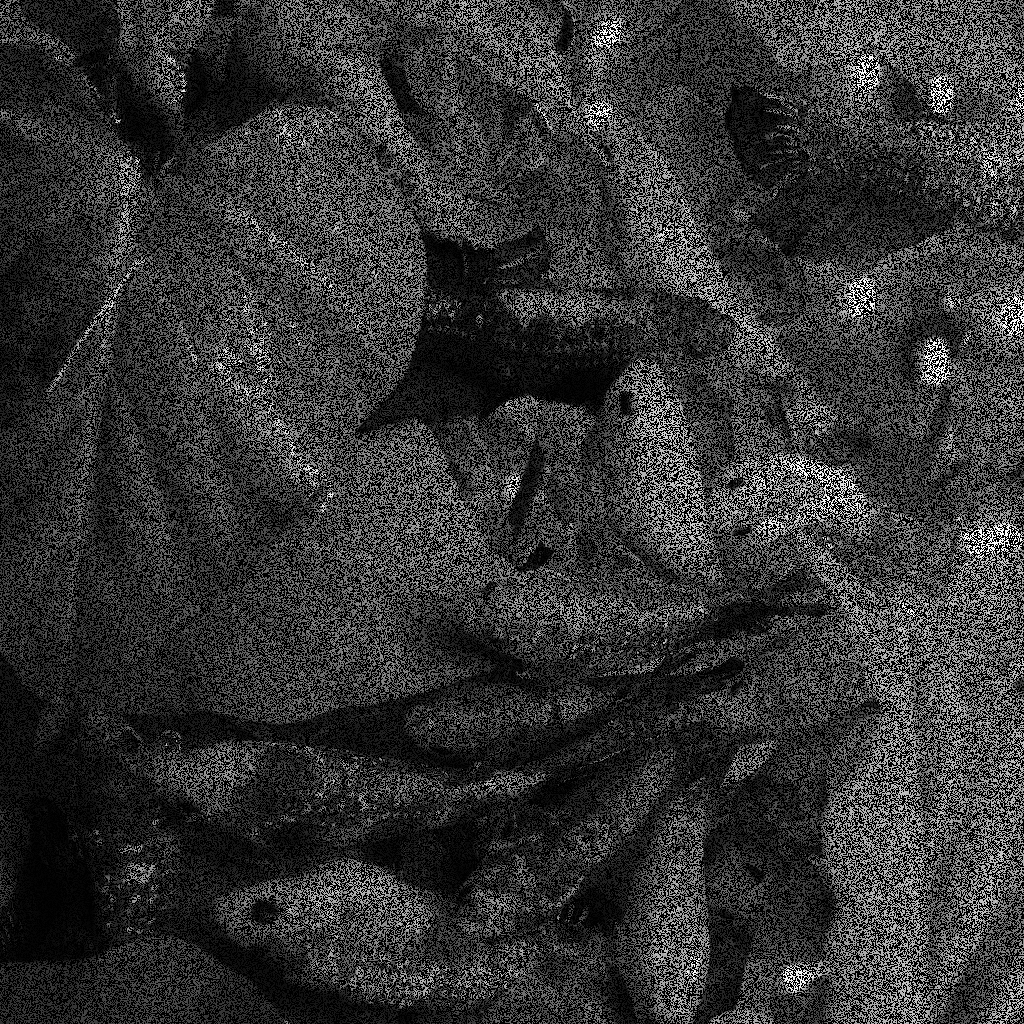
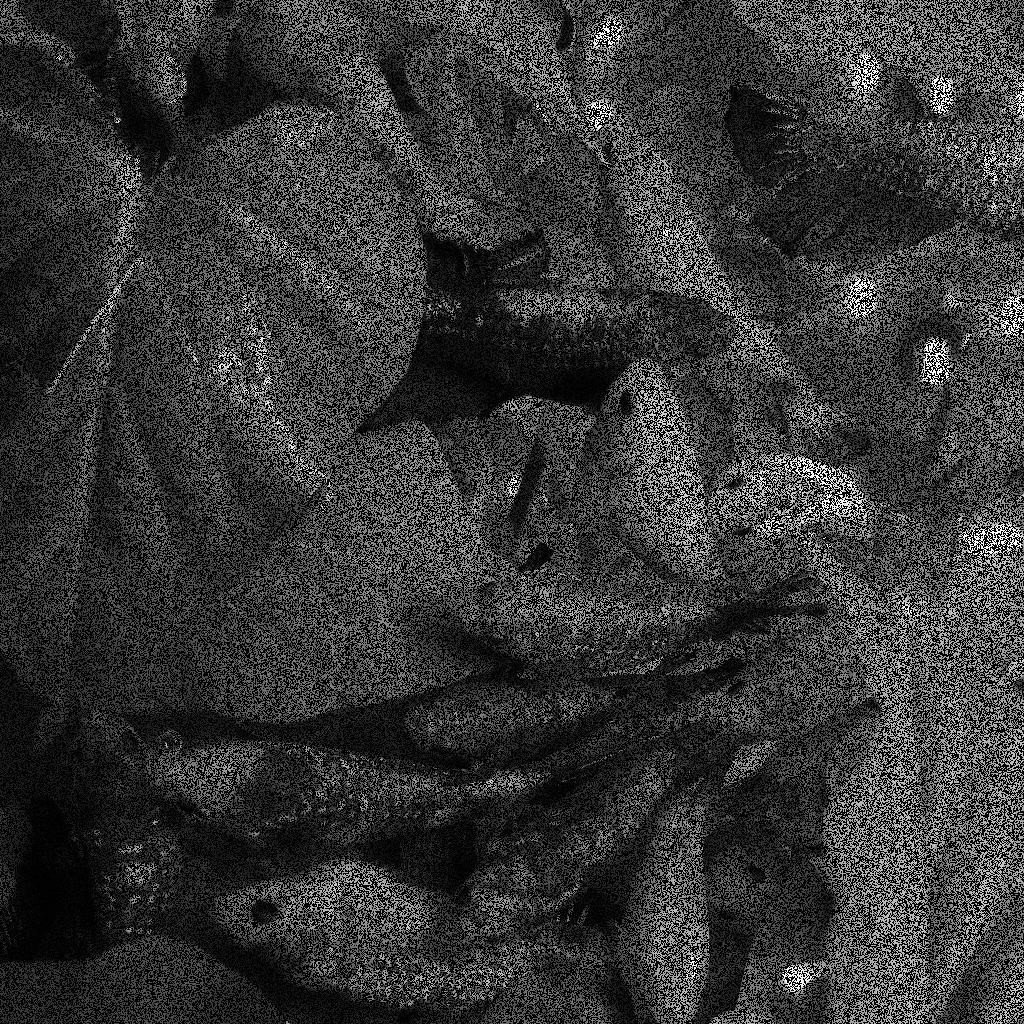
:zap: lab2 done!

diff --git a/lab2/main.py b/lab2/main.py
@@ -2,36 +2,58 @@ import cv2
 import numpy as np
 from PIL import Image  # pillow
 from matplotlib import pyplot as plt
+import sys
 
-from helper import shuffle_2D_matrix
+from helper import makeRandomOneZeroMatrix1024by1024
 
 im1 = cv2.imread('./data/IMG_3376_trimmed.png',0)
 
-# random matrix 1024 by 1024
-ran2d = np.zeros(2**20)
-ran2d[:2**19] = 1
-np.random.shuffle(ran2d)
-ran2d = ran2d.reshape(1024,1024)
-
-t_ran2d = np.logical_not(ran2d)*1
-
-# separate image as set1, set2
-set1 = im1*ran2d
-set2 = im1*t_ran2d
+# random matrix 1024 by 1024, composed of 0 and 1
+matrix, opp_matrix = makeRandomOneZeroMatrix1024by1024()
+set1 = im1*matrix
+set2 = im1*opp_matrix
 
 # image save
 plt.imsave('./result/set1.png',set1,cmap='gray')
 plt.imsave('./result/set2.png',set2,cmap='gray')
 
-s1=(set1.sum()-set2.sum())/2**19
+set1_plus_5 = np.clip((set1+5)*matrix,0,255)
+set2_subtract_5 = np.clip((set2-5)*opp_matrix,0,255)
+
+s1=(np.abs(set1.sum()-set2.sum()))/2**19
+s2=(set1_plus_5.sum()-set2_subtract_5.sum())/2**19
+
+# image save
+plt.imsave('./result/set1_plus_5.png',set1_plus_5,cmap='gray')
+plt.imsave('./result/set2_subtract_5.png',set2_subtract_5,cmap='gray')
+
+# combine image
+comb_img = set1_plus_5+set2_subtract_5
+plt.imsave('./result/comb_img.png',comb_img,cmap='gray')
+
+# random matrix 1024 by 1024, composed of 0 and 1
+matrix2, opp_matrix2 = makeRandomOneZeroMatrix1024by1024()
+set3 = comb_img*matrix2
+set4 = comb_img*opp_matrix2
+
+s3=(np.abs(set3.sum()-set4.sum()))/2**19
+
 
 print("random vector")
-print(ran2d)
+print(matrix)
 print("not gated random vector")
-print(t_ran2d)
+print(opp_matrix)
+print('----------')
 print('set1')
 print(set1)
 print('set2')
 print(set2)
-print(s1)
-print(ran2d.sum())
+print('-----------')
+print('max, min check')
+print(set1_plus_5.max(), set1_plus_5.min())
+print(set2_subtract_5.max(), set2_subtract_5.min())
+
+print('-----')
+print('s1:',s1)
+print('s2:',s2)
+print('s3:',s3)

diff --git a/lab2/helper.py b/lab2/helper.py
@@ -1,31 +1,12 @@
 import numpy as np
 
-def random_idx_idy():
+# random matrix 1024 by 1024, composed of 0 and 1
+def makeRandomOneZeroMatrix1024by1024():
+    ran2d = np.zeros(2**20)
+    ran2d[:2**19] = 1
+    np.random.shuffle(ran2d)
     
-    return
-
-def shuffle_2D_matrix(matrix, seed, axis = 0):
-    """
-    Shuffle 2D matrix by column or row.
+    ran2dMat = ran2d.reshape(1024,1024)
+    opposite_ran2dMat = np.logical_not(ran2dMat)*1
     
-    Arguments:
-    matrix: 2D matrix to be shuffled
-    seed  : seed of numpy.random
-    axis  : zero - by column, non-zero - by row
-    
-    Returns:
-    shuffled_matrix: shuffled matrix
-    """
-    
-    np.random.seed(seed)
-    
-    if axis == 0: # by column
-        m = matrix.shape[1]
-        permutation = list(np.random.permutation(m))
-        shuffled_matrix = matrix[:, permutation]
-    else:          # by row
-        m = matrix.shape[0]
-        permutation = list(np.random.permutation(m))
-        shuffled_matrix = matrix[permutation, :]
-
-    return shuffled_matrix
+    return [ran2dMat, opposite_ran2dMat]

diff --git a/lab2/readme.md b/lab2/readme.md
@@ -1,0 +1,30 @@
+# 과제2
+
+자세한 코드, 명세는 [여기](https://github.com/ho4607/lecture_multi_media/tree/main/lab2)에서 확인 가능합니다.   
+> 작성자 : 박성호, 융합전자공학부, 2017***883.  
+
+## Hypothesis 
+1024x1024 이미지를 두개의 셋으로 나누어서 각 셋의 모든 픽셀의 합의 차는 0에 가까워질 것이다.   
+1024x1024 이미지를 두개의 셋으로 나눈 각 셋에 픽셀 값에 +5 -5를 하고, 모든 픽셀의 합의 차는 구하면 10에 가까워질 것이다.
+두셋을 다시 합쳐 이미지를 저장하고
+
+## Work Flow
+- [x] 1. 1024x1024 이미지를 랜덤하게 두개의 set으로 나눈다.
+- [x] 2. 랜덤하게 나눈 두개의 set의 모든 원소의 합을 구한다. 그리고 그 합을 서로빼고 $$2^19$$으로 나눈다.
+- [x] 3. 두 set에 한 쪽에는 +5의 픽셀값을 변경하고, 다른 한 쪽에는 -5의 픽셀값을 변경한 후 1~2의 과정을 다시 계산한다. (이때 0~255의 값을 넘는 픽셀은 clip 해주어야 한다.)
+- [x] 4. 두 set을 다시 합쳐 새로운 이미지를 만들고 1과 다른 랜덤하게 두개의 셋으로 나눈 뒤 1~2의 과정을 계산한다.
+
+## Result
+1~2의 결과를 s1, 3의 과정을 s2, 4의 과정을 s3라고 한다면 다음과 같이 결과가 나왔다.
+
+s1: 0.06668663024902344   
+s2: 9.922290802001953   
+s3: 0.0042724609375   
+
+또 원본 이미지와 무작위로 픽셀값이 +5와 -5된 이미지도 살펴보자.   
+
+(왼쪽) 원본이미지 (오른쪽) 픽셀값이 +5,-5된 수정된 이미지
+<div>
+    <img src='./data/IMG_3376_trimmed.png' style='width:200px; height:200px;' />
+    <img src='./result/comb_img.png' style='width:200px; height:200px'  />
+</div>
